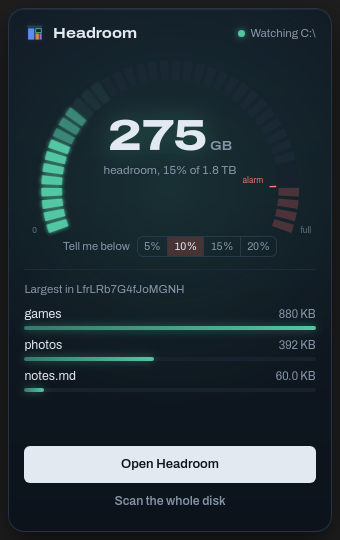
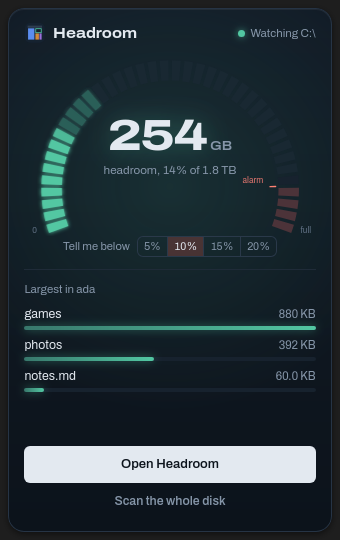
BSD 2-Clause license; releases carry the engine's notices
Headroom's code is under the BSD 2-Clause license, as Plume and ZeroG. Its
executables contain ZeroG, whose WebCore and JavaScriptCore are LGPL: the
release attaches the engine's THIRD_PARTY_NOTICES.txt (from the ZeroG package
built with), and the README says so.

The popover's picture: the test scans a folder named ada, not the temporary
folder's random name.

Changed region(s): [[0.4118, 0.2074, 0.6176, 0.3259], [0.2353, 0.5037, 0.5294, 0.563], [0.1471, 0.1481, 0.2941, 0.2667]]

diff --git a/README.md b/README.md
@@ -13,6 +13,7 @@
   <a href="https://github.com/dzonerzy/ZeroG"><img alt="ZeroG 0.5.5" src="https://img.shields.io/badge/engine-ZeroG%200.5.5-7B5CFF"></a>
   <img alt="Zig 0.17" src="https://img.shields.io/badge/Zig-0.17-F7A41D">
   <img alt="platforms" src="https://img.shields.io/badge/platforms-Windows%20%7C%20Linux-1B1F3B">
+  <a href="LICENSE"><img alt="license" src="https://img.shields.io/badge/license-BSD--2--Clause-29D3F4"></a>
 </p>
 
 ![Headroom showing a home folder as a treemap: projects, videos, caches, downloads](docs/map.png)
@@ -96,3 +97,11 @@ plume package    # build/package: the installer, the zip, the .deb, ...
 
 `zig build scan -Doptimize=ReleaseFast -- <folder>` runs the scanner and the
 rules alone on a folder and prints what they found and how long it took.
+
+## License
+
+Headroom's code is under the [BSD 2-Clause license](LICENSE). Its executables
+contain the ZeroG engine, whose WebCore and JavaScriptCore are LGPL: each
+release carries the engine's `THIRD_PARTY_NOTICES.txt`, and this repository
+builds Headroom against any ZeroG engine, a modified one included
+([how](https://dzonerzy.github.io/ZeroG/guides/licensing/)).
